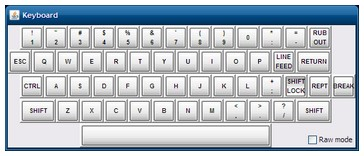
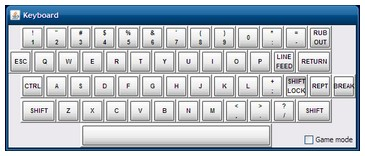
Rename keyboard raw mode as game mode

diff --git a/docs/samples.html b/docs/samples.html
@@ -76,7 +76,7 @@ machine.
 command in BASIC and playing the tape.
 Press the <i>SPACE</i> bar when the program has loaded to regain control of
 the keyboard then type <code>RUN</code>.
-You should set the keyboard to <a href="operation.html#kbmode">raw mode</a>
+You should set the keyboard to <a href="operation.html#kbmode">game mode</a>
 to play the game.</p>
 <hr>
 <h2 id="hectic">Hectic</h2>
@@ -96,7 +96,7 @@ machine.
 command in BASIC and playing the tape.
 Press the <i>SPACE</i> bar when the program has loaded to regain control of
 the keyboard then type <code>RUN</code>.
-You should set the keyboard to <a href="operation.html#kbmode">raw mode</a>
+You should set the keyboard to <a href="operation.html#kbmode">game mode</a>
 to play the game.</p>
 <hr>
 <h2 id="bbox">Black Box</h2>
@@ -135,7 +135,7 @@ command in BASIC and playing the tape.
 Press the <i>SPACE</i> bar when the program has loaded to regain control of
 the keyboard then type <code>RUN</code>.
 The program should give some instructions on how to use it.
-You should set the keyboard to <a href="operation.html#kbmode">raw mode</a>
+You should set the keyboard to <a href="operation.html#kbmode">game mode</a>
 to play the game.</p>
 <hr>
 <h2 id="exmon">Extended Monitor</h2>
@@ -195,7 +195,7 @@ Unfortunately these keys are the other way up on a PC keyboard so
 this is not ideal!
 I once knew some locations to patch to change these keys, but I can no
 longer find those notes - sorry! 
-You should set the keyboard to <a href="operation.html#kbmode">raw mode</a>
+You should set the keyboard to <a href="operation.html#kbmode">game mode</a>
 to play the game.</p>
 <hr>
 <h2 id="astero">Asteroids</h2>
@@ -225,7 +225,7 @@ or press the <i>right-SHIFT</i> to rotate clockwise.
 Press the <i>SPACE</i> bar to fire.  
 The laser does seem to rotate rather fast - I'm not sure if it always did 
 this or if it is related to the simulation!
-You should set the keyboard to <a href="operation.html#kbmode">raw mode</a>
+You should set the keyboard to <a href="operation.html#kbmode">game mode</a>
 to play the game.</p>
 <hr>
 <h2 id="format">Binary, ASCII and Audio Tape Formats</h2>

diff --git a/docs/operation.html b/docs/operation.html
@@ -140,12 +140,12 @@ simulator will press the <i>shift-K</i> key to produce a correct
 open square-bracket keystroke on the UK101.
 In general this works very well and makes typing of programs 
 much easier.<p/></li>
-<li>In the <b>raw</b> mode (checkbox ticked) the keyboard is mapped
+<li>In the <b>game</b> mode (checkbox ticked) the keyboard is mapped
 much more closely to the original - so, for example a <i>shift-K</i>
 on the PC would produce an open square-bracket and a <i>shift-8</i> 
 an open parenthesis.</li>
 </ul>
-<p>Raw mode may be needed when running programs that interact directly
+<p>Game mode may be needed when running programs that interact directly
 with the keyboard, most games for example, as the mapping done in the
 default mode is likely to confuse things.</p>  
 <h3>Using the Reset Keys</h3>

diff --git a/src/uk101/view/KeyboardView.java b/src/uk101/view/KeyboardView.java
@@ -27,7 +27,7 @@ import uk101.view.component.KeyboardLock;
 /**
  * A visual representation of the keyboard.
  *
- * The keyboard can operate in two modes 'raw' or normal.  In 'raw' mode basic
+ * The keyboard can operate in two modes 'game' or normal.  In 'game' mode basic
  * key presses and releases are used and the keyboard layout closely matches
  * the UK101 (so for example SHIFT-3 gives a '#').  In normal mode an attempt
  * is made to use the PC characters to press the appropriate key (this ought to
@@ -55,14 +55,14 @@ public class KeyboardView extends JInternalFrame implements ItemListener, MouseL
 
     private Computer computer;
     private Keyboard keyboard;
-    private boolean rawMode, ctrlMode;
+    private boolean gameMode, ctrlMode;
 
     public KeyboardView(Computer computer, Keyboard keyboard) {
         super("Keyboard", false, false, false, false);
         this.computer = computer;
         this.keyboard = keyboard;
 
-        rawMode = false;
+        gameMode = false;
 
         // Layout the basic keys
         JPanel row1, row2, row3, row4, row5;
@@ -115,12 +115,12 @@ public class KeyboardView extends JInternalFrame implements ItemListener, MouseL
             row3.add(new KeyboardKey("BREAK", Keyboard.KEY_RESET, this));
         }
 
-        // Add the keyboard 'raw' mode selector
-        JCheckBox raw = new JCheckBox("Raw mode");
-        raw.setAlignmentY(BOTTOM_ALIGNMENT);
-        raw.addItemListener(this);
+        // Add the keyboard 'game' mode selector
+        JCheckBox game = new JCheckBox("Game mode");
+        game.setAlignmentY(BOTTOM_ALIGNMENT);
+        game.addItemListener(this);
         row5.add(Box.createHorizontalGlue());
-        row5.add(raw);
+        row5.add(game);
 
         // Build the full keyboard
         Container content = getContentPane();
@@ -152,7 +152,7 @@ public class KeyboardView extends JInternalFrame implements ItemListener, MouseL
     public void mousePressed(MouseEvent e) {
         KeyboardKey key = (KeyboardKey)e.getSource();
         if (key.getCode() != Keyboard.KEY_RESET) {
-            if (!rawMode && e.isShiftDown()) {
+            if (!gameMode && e.isShiftDown()) {
                 keyboard.pressKey(Keyboard.KEY_LSHIFT);
             }
             keyboard.pressKey(key.getCode());
@@ -169,7 +169,7 @@ public class KeyboardView extends JInternalFrame implements ItemListener, MouseL
         KeyboardKey key = (KeyboardKey)e.getSource();
         if (key.getCode() != Keyboard.KEY_RESET) {
             keyboard.releaseKey(key.getCode());
-            if (!rawMode && e.isShiftDown()) {
+            if (!gameMode && e.isShiftDown()) {
                 keyboard.releaseKey(Keyboard.KEY_LSHIFT);
             }
         }
@@ -196,7 +196,7 @@ public class KeyboardView extends JInternalFrame implements ItemListener, MouseL
             else
                 keyboard.releaseKey(key.getCode());
         } else {
-            rawMode = (e.getStateChange() == ItemEvent.SELECTED);
+            gameMode = (e.getStateChange() == ItemEvent.SELECTED);
         }
     }
 
@@ -204,10 +204,10 @@ public class KeyboardView extends JInternalFrame implements ItemListener, MouseL
      * KeyListener is used to map the real keyboard.
      *
      * In normal mode we try to interpret the real PC keys and try to press the
-     * matching character on the UK101 keyboard.  In 'raw' mode we just process
+     * matching character on the UK101 keyboard.  In '' mode we just process
      * basic key-ups and key-downs.
      * 
-     * Note: when the Ctrl key is pressed we always process as if in 'raw' mode,
+     * Note: when the Ctrl key is pressed we always process as if in '' mode,
      *       this is to ensure the BASIC editor works correctly.
      *       
      * Note: for Superboard II mappings, any of the keys to right of the P key (ie
@@ -239,7 +239,7 @@ public class KeyboardView extends JInternalFrame implements ItemListener, MouseL
     }
 
     public void keyTyped(KeyEvent e) {
-        if (!rawMode && !ctrlMode) {
+        if (!gameMode && !ctrlMode) {
             char key = e.getKeyChar();
             if (key > 31 && key < 127) 
                 pressMapped(key);
@@ -259,16 +259,16 @@ public class KeyboardView extends JInternalFrame implements ItemListener, MouseL
         case KeyEvent.VK_DELETE:       key = Keyboard.KEY_RUBOUT;  break;
         
         case KeyEvent.VK_CONTROL:   
-            if (rawMode && location == KeyEvent.KEY_LOCATION_RIGHT) {
+            if (gameMode && location == KeyEvent.KEY_LOCATION_RIGHT) {
                 key = Keyboard.KEY_RSHIFT;  // Right-ctrl is treated as an
             } else {                        // alternative to right-shift in
-                key = Keyboard.KEY_CTRL;    // raw mode.
+                key = Keyboard.KEY_CTRL;    // game mode.
             }    
             break;
         
         case KeyEvent.VK_SHIFT:             // Menu-key can be used as an 
         case KeyEvent.VK_CONTEXT_MENU:      // alternative to right-shift.   
-            if (rawMode || ctrlMode) {
+            if (gameMode || ctrlMode) {
                 if (location == KeyEvent.KEY_LOCATION_LEFT)
                     key = Keyboard.KEY_LSHIFT;
                 else
@@ -277,7 +277,7 @@ public class KeyboardView extends JInternalFrame implements ItemListener, MouseL
             break;
             
         default:
-            if (rawMode || ctrlMode) {  // Note: the key(s) to the right of the 'P' key map to UPARROW/LINE FEED
+            if (gameMode || ctrlMode) {  // Note: the key(s) to the right of the 'P' key map to UPARROW/LINE FEED
                 if (code == KeyEvent.VK_OPEN_BRACKET || code == KeyEvent.VK_CLOSE_BRACKET)
                     key = Keyboard.KEY_UPARROW;
                 else if (code > 31 && code < 127)
